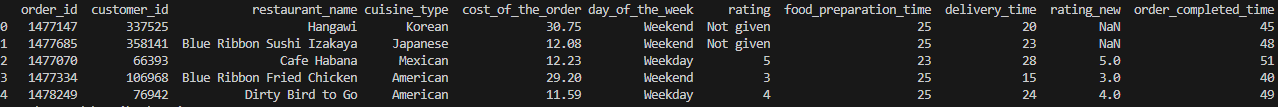
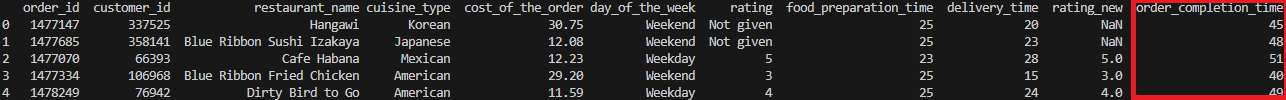
tambah grafik cuinise

diff --git a/README.md b/README.md
@@ -40,7 +40,7 @@ Dari gambar diatas, setelah dilakukan pengecekan tidak terdapat nilai null pada 
 ---
 
 ### Cek Kolom
-"Kolom restaurant_name"
+"Mengecek Kolom restaurant_name"
 ```
 #Check restaurant name
 print(df.restaurant_name.unique())
@@ -81,7 +81,7 @@ Berikut hasil setelah dilakukan pergantian nama restoran
 
 ---
 
-"Kolom cuisine_type"
+"Mengecek Kolom cuisine_type"
 ```
 print(df.cuisine_type.unique())
 ```
@@ -91,9 +91,9 @@ Terdapat 14 jenis masakan pada kolom cuisine_type.
 
 ---
 
-"Kolom day_of_the_week"
+"Mengecek Kolom day_of_the_week"
 ```
-#print(df.day_of_the_week.unique())
+print(df.day_of_the_week.unique())
 ```
 ![dayofweek](pic/cek%20day%20of%20week(7).png)
 
@@ -101,10 +101,10 @@ Pada kolom day_of_the_week hanya memiliki 2 data yaitu weekday dan weekend.
 
 ---
 
-"Kolom rating"
+"Mengecek Kolom rating"
 ```
 #Check rating
-#print(df.rating.value_counts(normalize=True) * 100)
+print(df.rating.value_counts(normalize=True) * 100)
 ```
 ![rating](pic/persentage%20rating%20(6).png)
 
@@ -119,3 +119,37 @@ df['rating_new'].isnull().sum()
 Kolom rating_new sudah dibuat dimana untuk nilai "Not given" sudah diubah menjadi NaN (Not a Number).
 
 ---
+
+"Membuat Kolom Waktu Penyelesaian Pesanan"
+Setelah melihat kolom pada dataframe terdapat kolom food_preparation_time dan delivery_time, disini saya ingin membuat satu kolom baru bernama order_completion_time, dimana kolom ini berisi nilai dari jumlah waktu pada food_preparation_time dan delivery_time. Berikut kode untuk membuat kolom baru bernama order_completion_time:
+```
+df['order_completion_time'] = df['food_preparation_time'] + df['delivery_time']
+print(df.head())
+```
+![completion_time](pic/order%20completed%20time%20(9).png)
+
+---
+"Mengecek Berapa Banyak Pesanan Dari Setiap Tipe Masakan dan Membuat Diagram Batang"
+```
+#Untuk mengecek jumlah order setiap tipe masakan
+print(df.groupby("cuisine_type").size())
+
+#Untuk mengecek persentase order setiap tipe masakan
+print(df.cuisine_type.value_counts(normalize=True) * 100)
+
+#Menampilkan diagram batang
+df.cuisine_type.value_counts()
+chart = df.cuisine_type.value_counts().plot(kind='bar')
+plt.xticks(rotation = 45)
+plt.show()
+
+```
+![Jml_order_per_cuisine](pic/order%20per%20type%20of%20cusine%20(10).png) ![prsn_order_per_cuisine](pic/persentage%20order%20per%20cuisine.png)
+
+![bar_cuisine](pic/graphic%20bar%20cuisine_type%20(11).png)
+
+Dari gambar diatas, masakan amerika menjadi masakan yang paling banyak dipesan (30,76%), masakan jepang menjadi masakan kedua yang paling banyak dipesan (24,76%) dan untuk masakan vietnam menjadi masakan paling sedikit dipesan (0,36%).
+
+---
+
+
